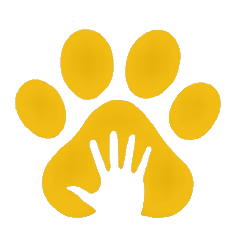
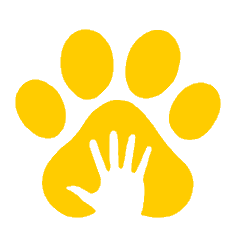
Changed color pallet for CSS section, not tailwind stuff

diff --git a/src/views/NewElection.vue b/src/views/NewElection.vue
@@ -124,6 +124,8 @@
                   flex
                   items-center
                   justify-center
+                  border-8
+                  border-gray-600
                   bg-gray-700 bg-opacity-50
                 "
               >
@@ -131,16 +133,37 @@
                 <div class="w-96 p-6 mx-4 bg-white rounded-md shadow-lg">
                   <!--Header for Popup-->
                   <div class="flex flex-col justify-center">
-                    <h1 class="text-3xl">Candidate Profile</h1>
+                    <h1 class="text-3xl mb-4">Candidate Profile</h1>
                   </div>
-
-                  <div>{{popUpOpen}} {{profileToDisplay}} {{index}}</div>
-                  <textarea v-model="UserProfile.value" placeholder="add multiple lines"></textarea>
+                  <div class="flex flex-col justify-center">
+                  </div>
+                  <!--<div>{{popUpOpen}} {{profileToDisplay}} {{index}}</div>-->
+                <div>
+                  <p class="mb-2">Enter text for the candidate in the box below. Recommended to copy and paste. When completed click the Submit button.</p>
+                </div>
+                  <div>
+                    <textarea v-model="UserProfile.value" placeholder="Text box" class="textInput border-2 border-gray-300"></textarea>
+                  </div>
                   <!-- Cancel vote selection button -->
+                  <div>
+                    <button  
+                      @click="submitProfile(UserProfile, index)"
+                      class="
+                      submit
+                      mt-4
+                      bg-blue-500
+                      hover:bg-blue-700
+                      text-white
+                      text-xl
+                      font-bold
+                      rounded
+                    ">Submit
+                  </button>
+                </div>
                   <button
                     @click="popUpOpen = false"
                     class="
-                      font-bold font-sans
+                      font-bold
                       text-2xl
                       w-12
                       mx-6
@@ -151,18 +174,8 @@
                       rounded-full
                       hover:bg-red-500 hover:text-black hover:border-black
                     "
-                  >
-                    X
+                    >X
                   </button>
-                  <button  @click="submitProfile(UserProfile, index)"
-                  class="
-                  addPro
-                  bg-blue-500
-                  hover:bg-blue-700
-                  text-white
-                  font-bold
-                  rounded
-                "></button>
                 </div>
               </div>
             </div>
@@ -461,9 +474,12 @@ input {
   width: 100px;
   height: 25px;
 }
-.picker{
-z-index: 0;
-color: yellow;
-border-color: yellow;
+.submit {
+  width: 100px;
+  height: 35px;
+}
+.textInput{
+  width: 300px;
+  height: 300px;
 }
 </style>

diff --git a/src/App.vue b/src/App.vue
@@ -91,7 +91,7 @@ export default {
   padding-left: 30px;
   padding-right: 30px;
   padding-bottom: 20px;
-  background-color: rgb(4, 6, 56);
+  background-color: rgb(8, 30, 63, 1.0);
   width:auto;
   font-weight: bold;
   
@@ -101,23 +101,23 @@ export default {
   font-family: Arial, Helvetica, sans-serif;
   font-size: 20px;
   text-decoration: underline;
-  color: #FACC15;
+  color: rgba(255, 204, 0, 1.0);
 
- -webkit-text-fill-color: rgba(251, 191, 36, 1.0); /* Will override color (regardless of order) */
+ -webkit-text-fill-color: rgba(255, 204, 0, 1.0); /* Will override color (regardless of order) */
  -webkit-text-stroke-width: 1 px;
-  -webkit-text-stroke-color: rgba(251, 191, 36, 0.3);
+  -webkit-text-stroke-color: rgba(255, 204, 0, 0.3);
   margin-bottom: 0px;
   margin-right: 1px;
   margin-left: 1px;
-  border: solid 0.5em rgb(4, 6, 56, 0);
+  border: solid 0.4em rgb(8, 30, 63, 0);
 
 }
 #nav a.active,
 #nav a:hover {
-  background-color: rgb(1, 4, 39);
-  border: groove 0.5em;
-  border-color: #00c3ffa9; 
-  border-radius: 26px;
+  background-color: rgb(8, 30, 63);
+  border: groove 0.4em;
+  border-color: rgb(0, 255, 255, 0.7); 
+  border-radius: 20px;
   width: auto;
 
 
@@ -133,7 +133,7 @@ div.footer {
   position: fixed;
   font-weight: 700;
   color: white;
-  background-color: rgb(4, 6, 56, 0.95) !important;
+  background-color: rgb(8, 30, 63, 0.95) !important;
   height: 60px;
   width: 100%;
   background-color: #ccc;
@@ -163,15 +163,15 @@ img{
   height:80px;
   margin-left: 15px;
   margin-right: 15px;
-  border-color: #FACC15;
+  border-color: rgba(255, 204, 0, 1.0);
 
 }
 /*text-7xl font-bold font-serif */
 div.title{
-  color: rgba(251, 191, 36, 1.0);
- -webkit-text-fill-color: rgba(251, 191, 36, 1.0); /* Will override color (regardless of order) */
+  color: rgba(255, 204, 0, 1.0);
+ -webkit-text-fill-color: rgba(255, 204, 0, 1.0); /* Will override color (regardless of order) */
  -webkit-text-stroke-width: 3px;
-  -webkit-text-stroke-color: rgba(251, 191, 36, 0.3);
+  -webkit-text-stroke-color: rgba(255, 204, 0, 0.3);
   font-size: 4.5rem; /* 72px */
   line-height: 1;
   font-weight: 700;

diff --git a/src/components/ElectionComponent.vue b/src/components/ElectionComponent.vue
@@ -56,7 +56,7 @@ NEED MOBILE VERSION-->
           <div class="w-96 p-6 mx-4 bg-white rounded-md shadow-lg">
             <!--Header for Popup-->
             <div class="flex flex-col justify-center">
-              <h1 class="text-3xl">Candidate Profile</h1>
+              <h1 class="text-3xl mb-4">Candidate Profile</h1>
             </div>
             <div class="flex flex-col justify-center">
               <!--<h2 class="text-2xl mt-2">Name</h2>-->
@@ -76,7 +76,6 @@ NEED MOBILE VERSION-->
                 @click="popUpOpen = false"
                 class="
                   font-bold
-                  font-sans
                   text-2xl
                   w-12
                   mx-6
@@ -86,8 +85,6 @@ NEED MOBILE VERSION-->
                   border-4 border-red-600
                   rounded-full
                   hover:bg-red-500 hover:text-black hover:border-black
-                  
-                  
                 "
               >X</button>
           </div>
